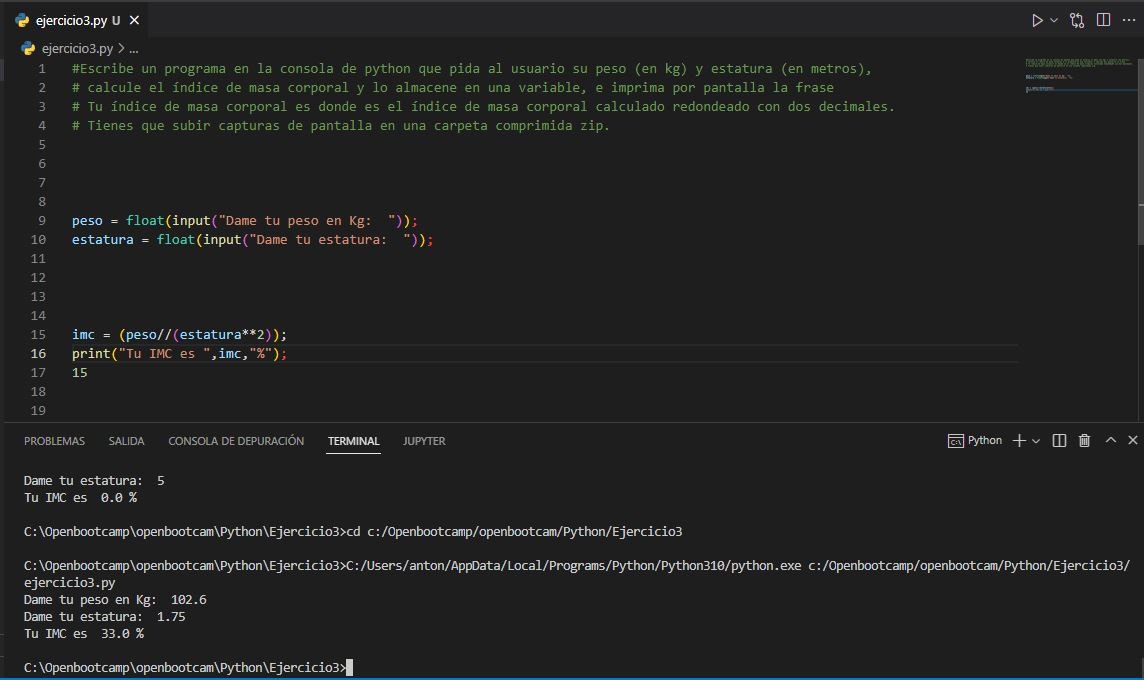
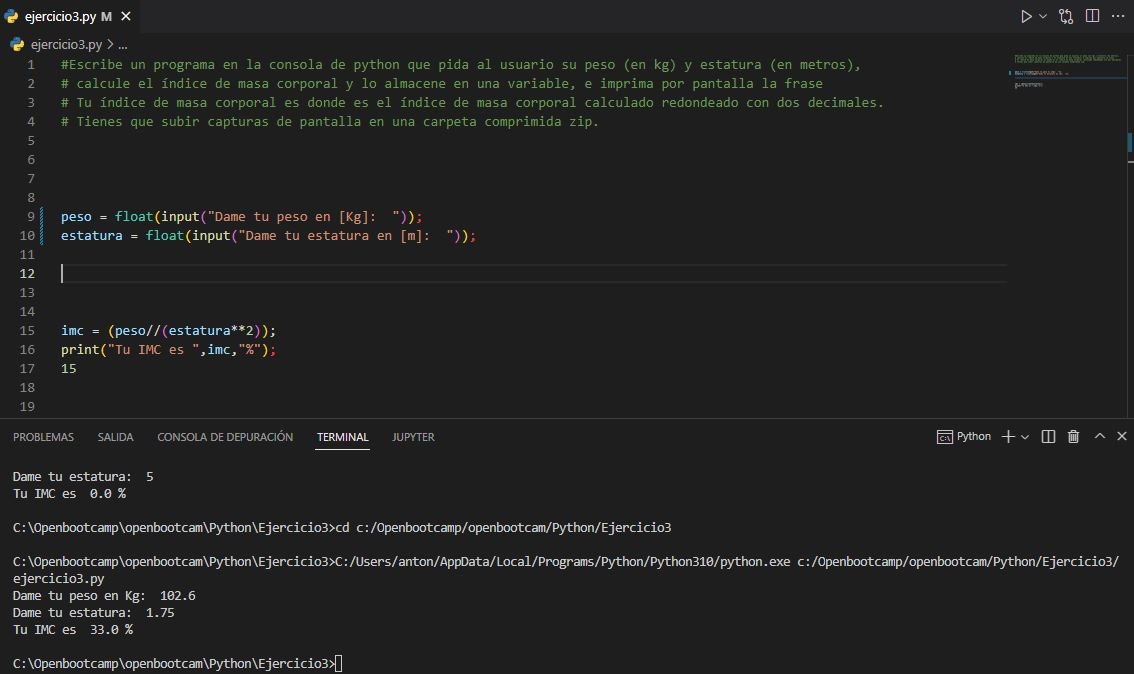
correccion de captura de pantalla

diff --git a/Python/Ejercicio3/ejercicio3.py b/Python/Ejercicio3/ejercicio3.py
@@ -6,8 +6,8 @@
 
 
 
-peso = float(input("Dame tu peso en Kg:  "));
-estatura = float(input("Dame tu estatura:  "));
+peso = float(input("Dame tu peso en [Kg]:  "));
+estatura = float(input("Dame tu estatura en [m]:  "));
 
 
 
